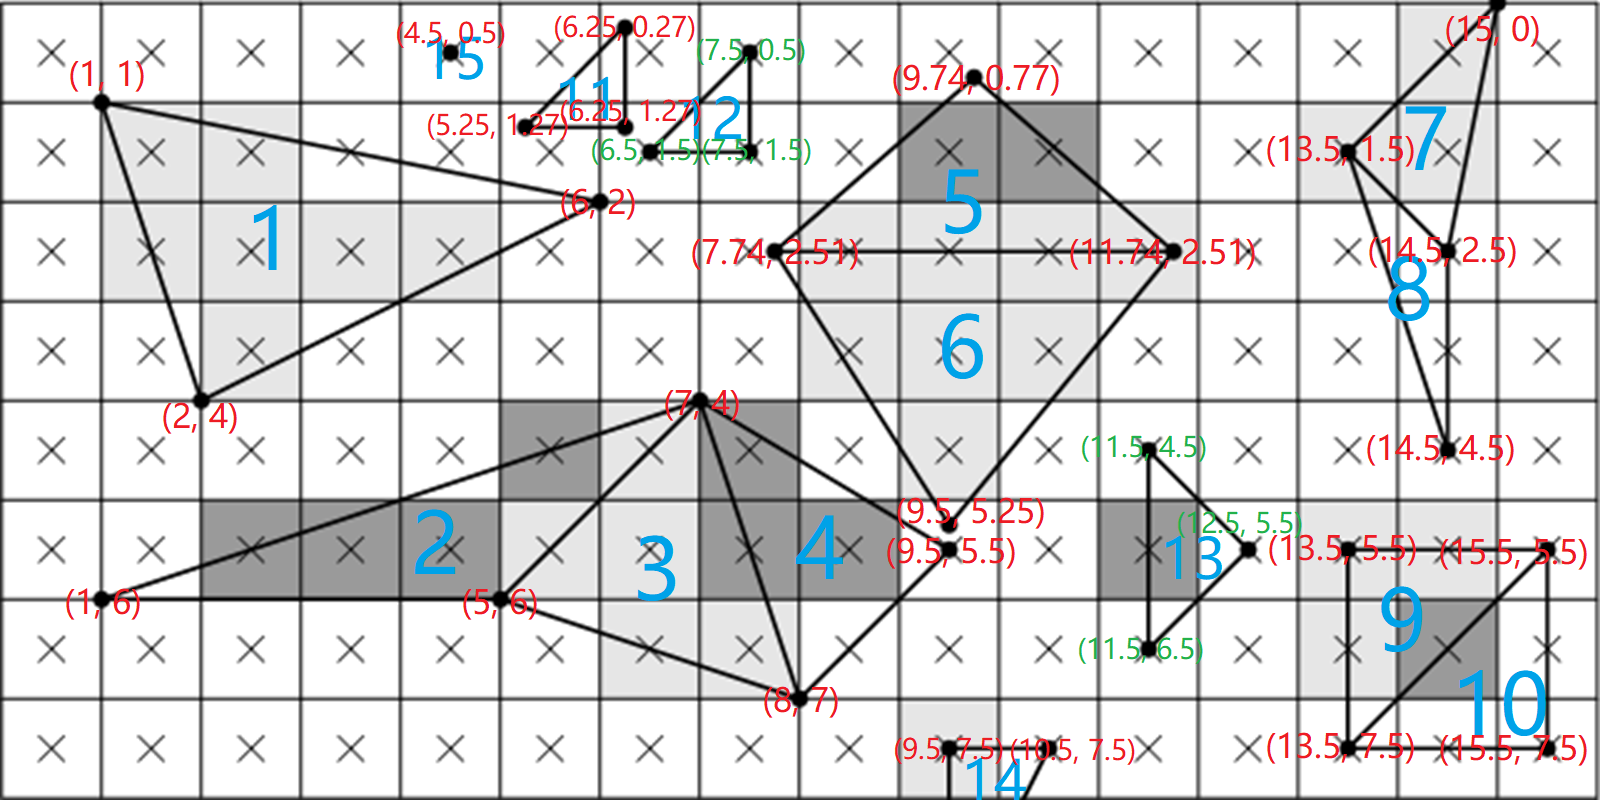
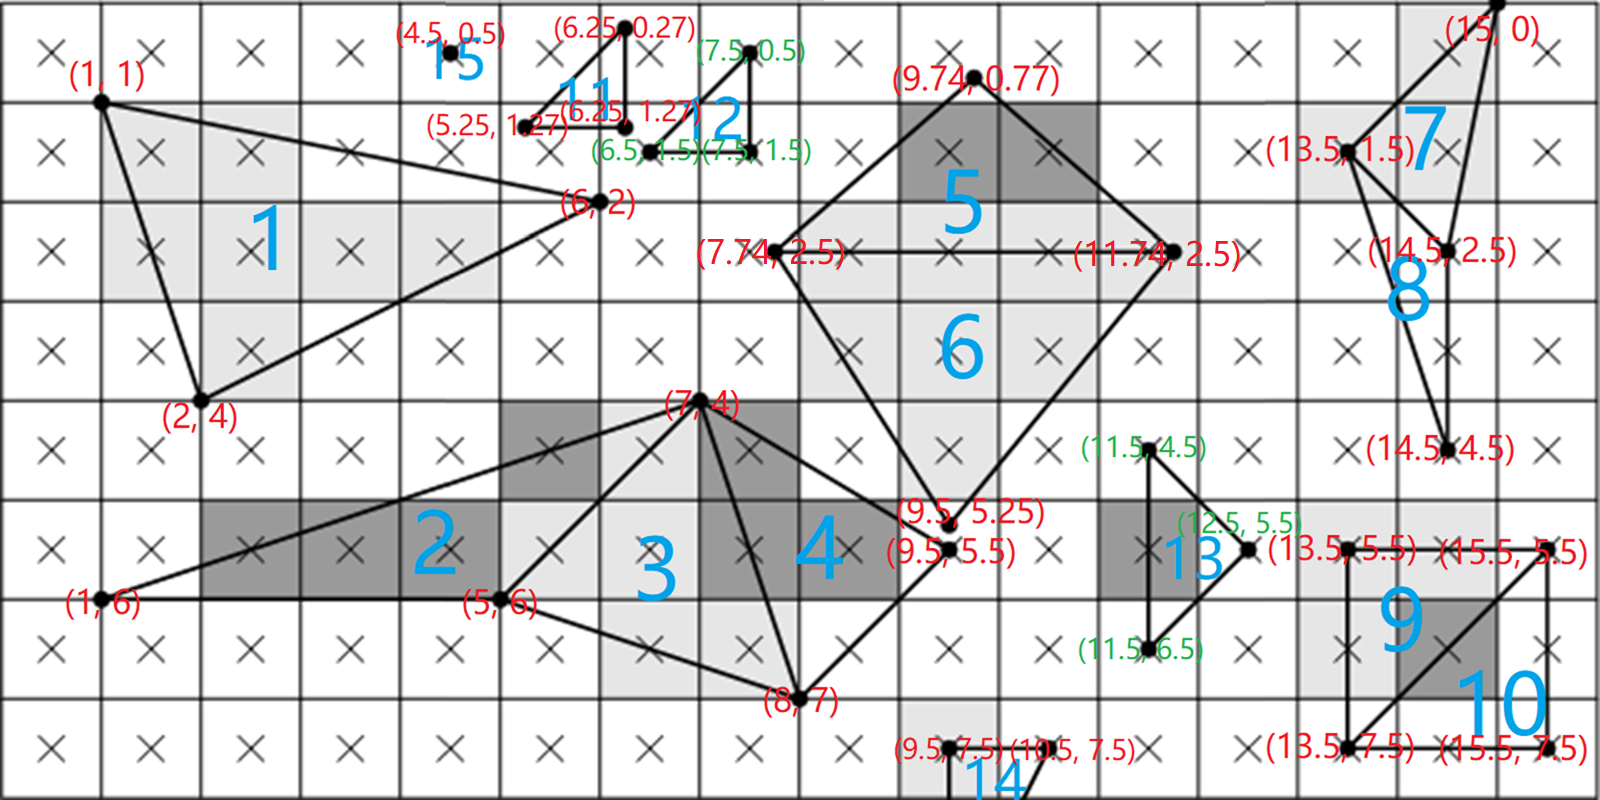
corrected a coordination mistake: 2.51 should be 2.5. corrected all images and codes.

diff --git a/M02SimpleRasterizer/C02TriangleVisualizer.py b/M02SimpleRasterizer/C02TriangleVisualizer.py
@@ -7,8 +7,8 @@ triangles = [
     [[5, 6], [8, 7], [7, 4]],
     [[8, 7], [9.5, 5.5], [7, 4]],
 
-    [[7.74, 2.51], [11.74, 2.51], [9.74, 0.77]],
-    [[7.74, 2.51], [9.5, 5.25], [11.74, 2.51]],
+    [[7.74, 2.5], [11.74, 2.5], [9.74, 0.77]],
+    [[7.74, 2.5], [9.5, 5.25], [11.74, 2.5]],
     [[13.5, 1.5], [14.5, 2.5], [15, 0]],
     [[13.5, 1.5], [14.5, 4.5], [14.5, 2.5]],
 

diff --git a/M02SimpleRasterizer/C03TriangleVisualizerWithSplit.py b/M02SimpleRasterizer/C03TriangleVisualizerWithSplit.py
@@ -9,8 +9,8 @@ triangles = [
     [[5, 6], [8, 7], [7, 4]],
     [[8, 7], [9.5, 5.5], [7, 4]],
 
-    [[7.74, 2.51], [11.74, 2.51], [9.74, 0.77]],
-    [[7.74, 2.51], [9.5, 5.25], [11.74, 2.51]],
+    [[7.74, 2.5], [11.74, 2.5], [9.74, 0.77]],
+    [[7.74, 2.5], [9.5, 5.25], [11.74, 2.5]],
     [[13.5, 1.5], [14.5, 2.5], [15, 0]],
     [[13.5, 1.5], [14.5, 4.5], [14.5, 2.5]],
 

diff --git a/M02SimpleRasterizer/C04TriangleRasterizer.py b/M02SimpleRasterizer/C04TriangleRasterizer.py
@@ -7,8 +7,8 @@ triangles = [
     [[5, 6], [8, 7], [7, 4]],
     [[8, 7], [9.5, 5.5], [7, 4]],
 
-    [[7.74, 2.51], [11.74, 2.51], [9.74, 0.77]],
-    [[7.74, 2.51], [9.5, 5.25], [11.74, 2.51]],
+    [[7.74, 2.5], [11.74, 2.5], [9.74, 0.77]],
+    [[7.74, 2.5], [9.5, 5.25], [11.74, 2.5]],
     [[13.5, 1.5], [14.5, 2.5], [15, 0]],
     [[13.5, 1.5], [14.5, 4.5], [14.5, 2.5]],
 
